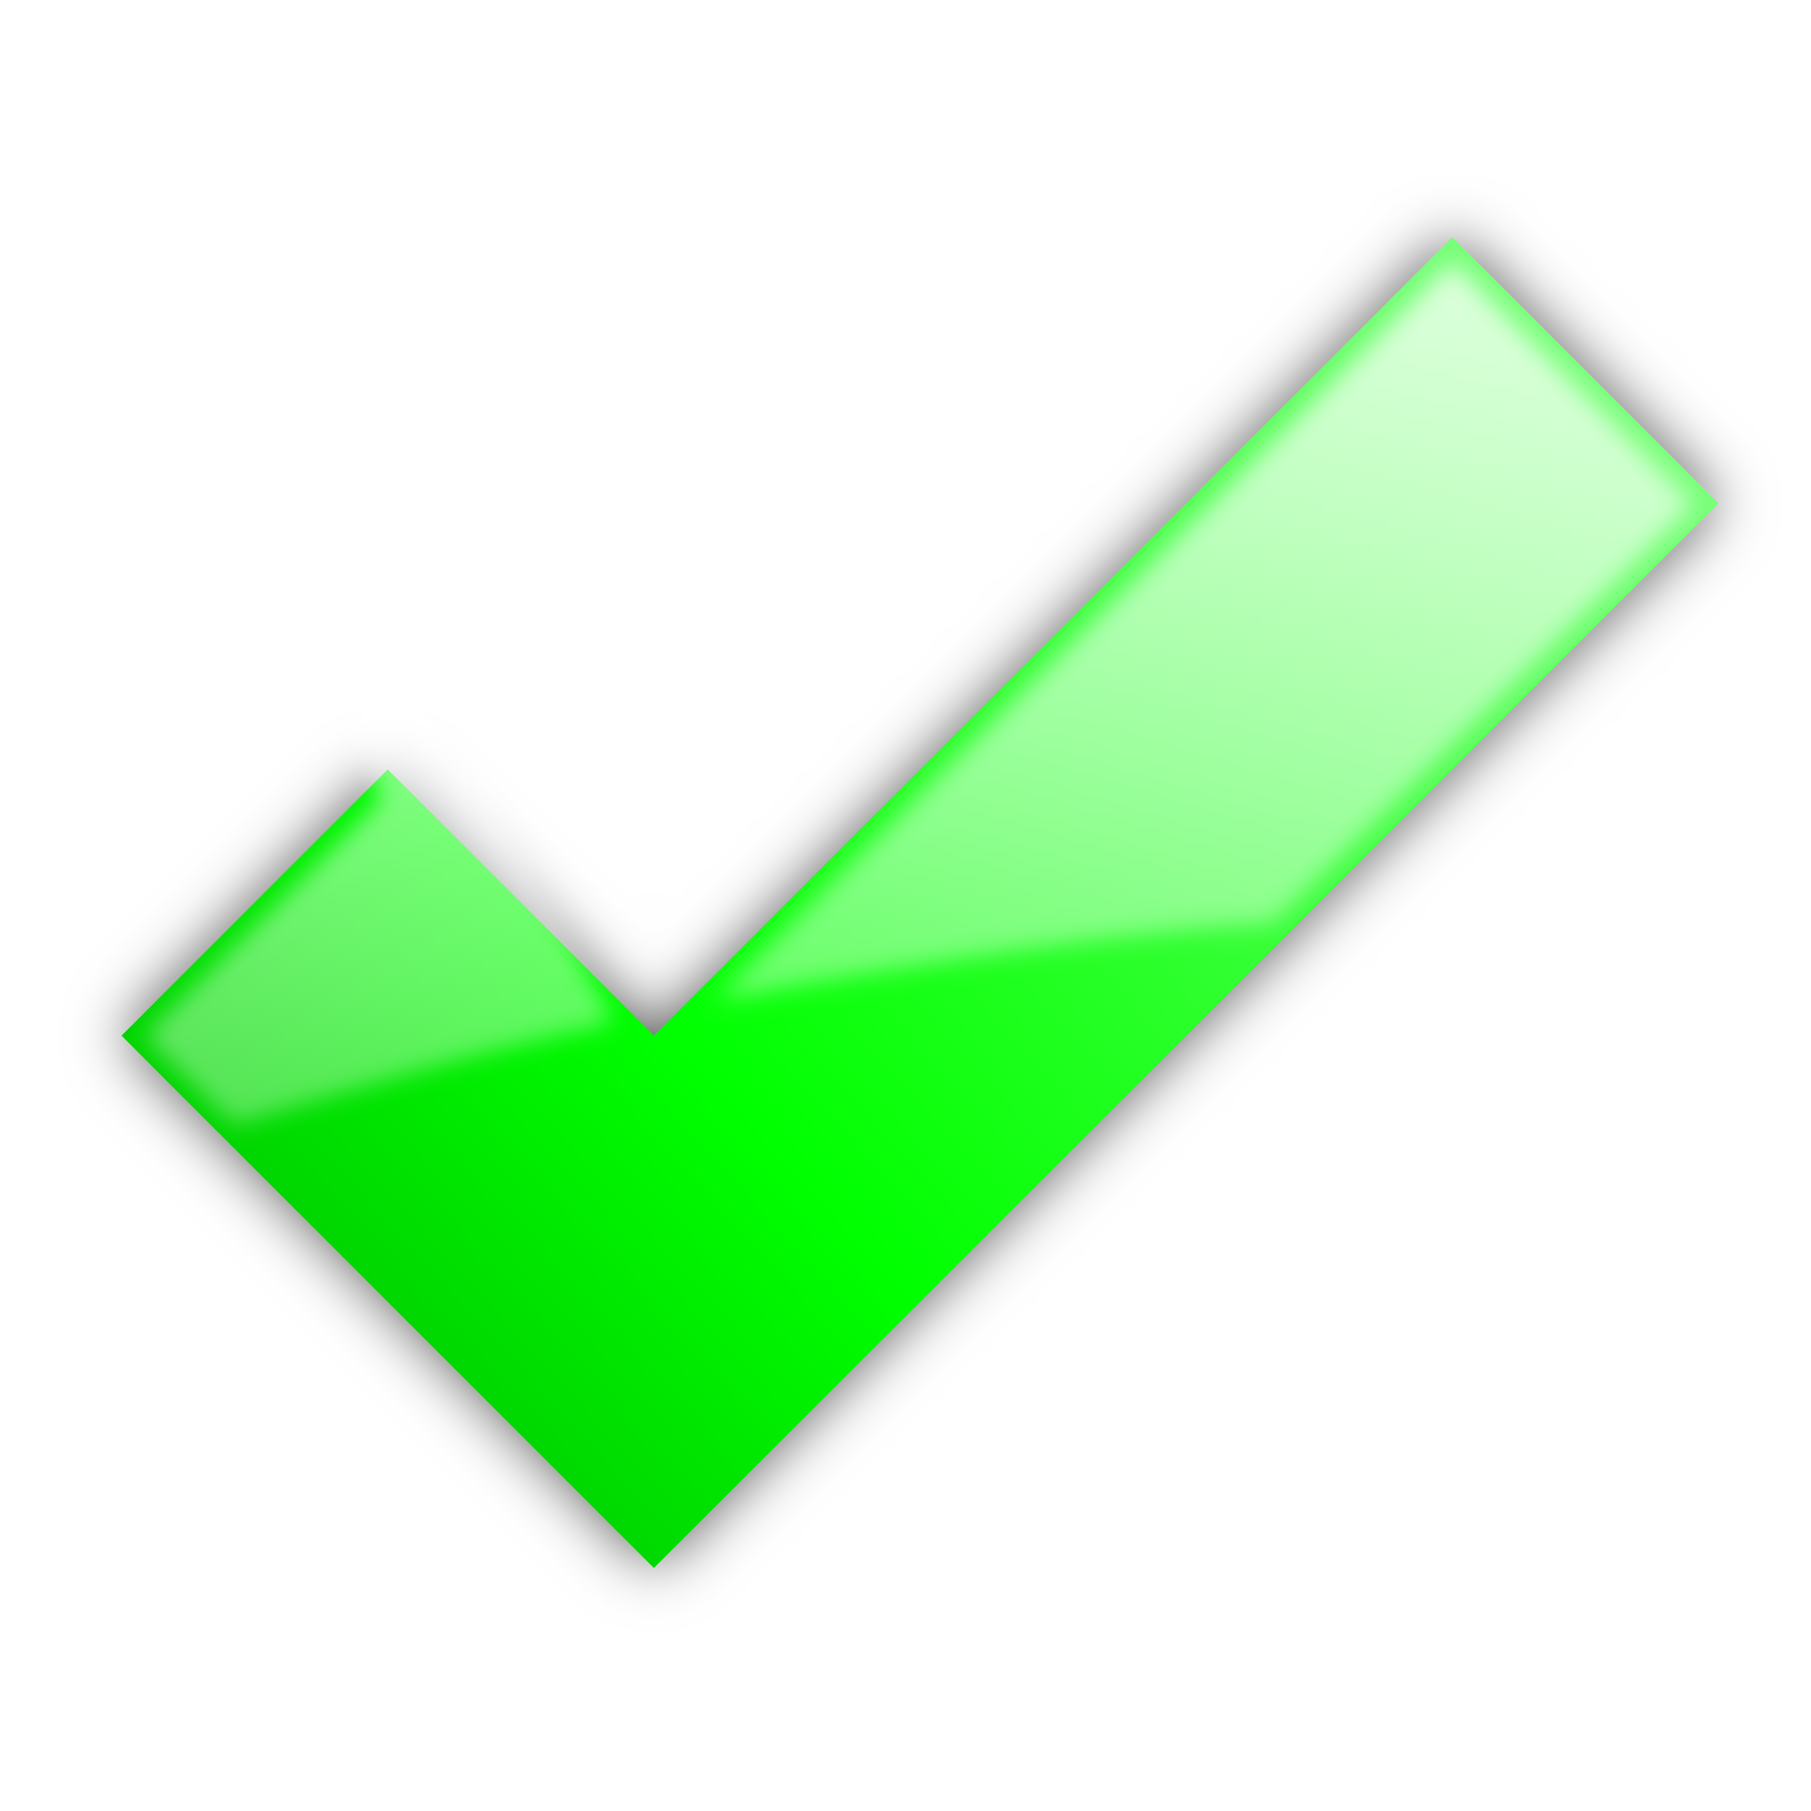
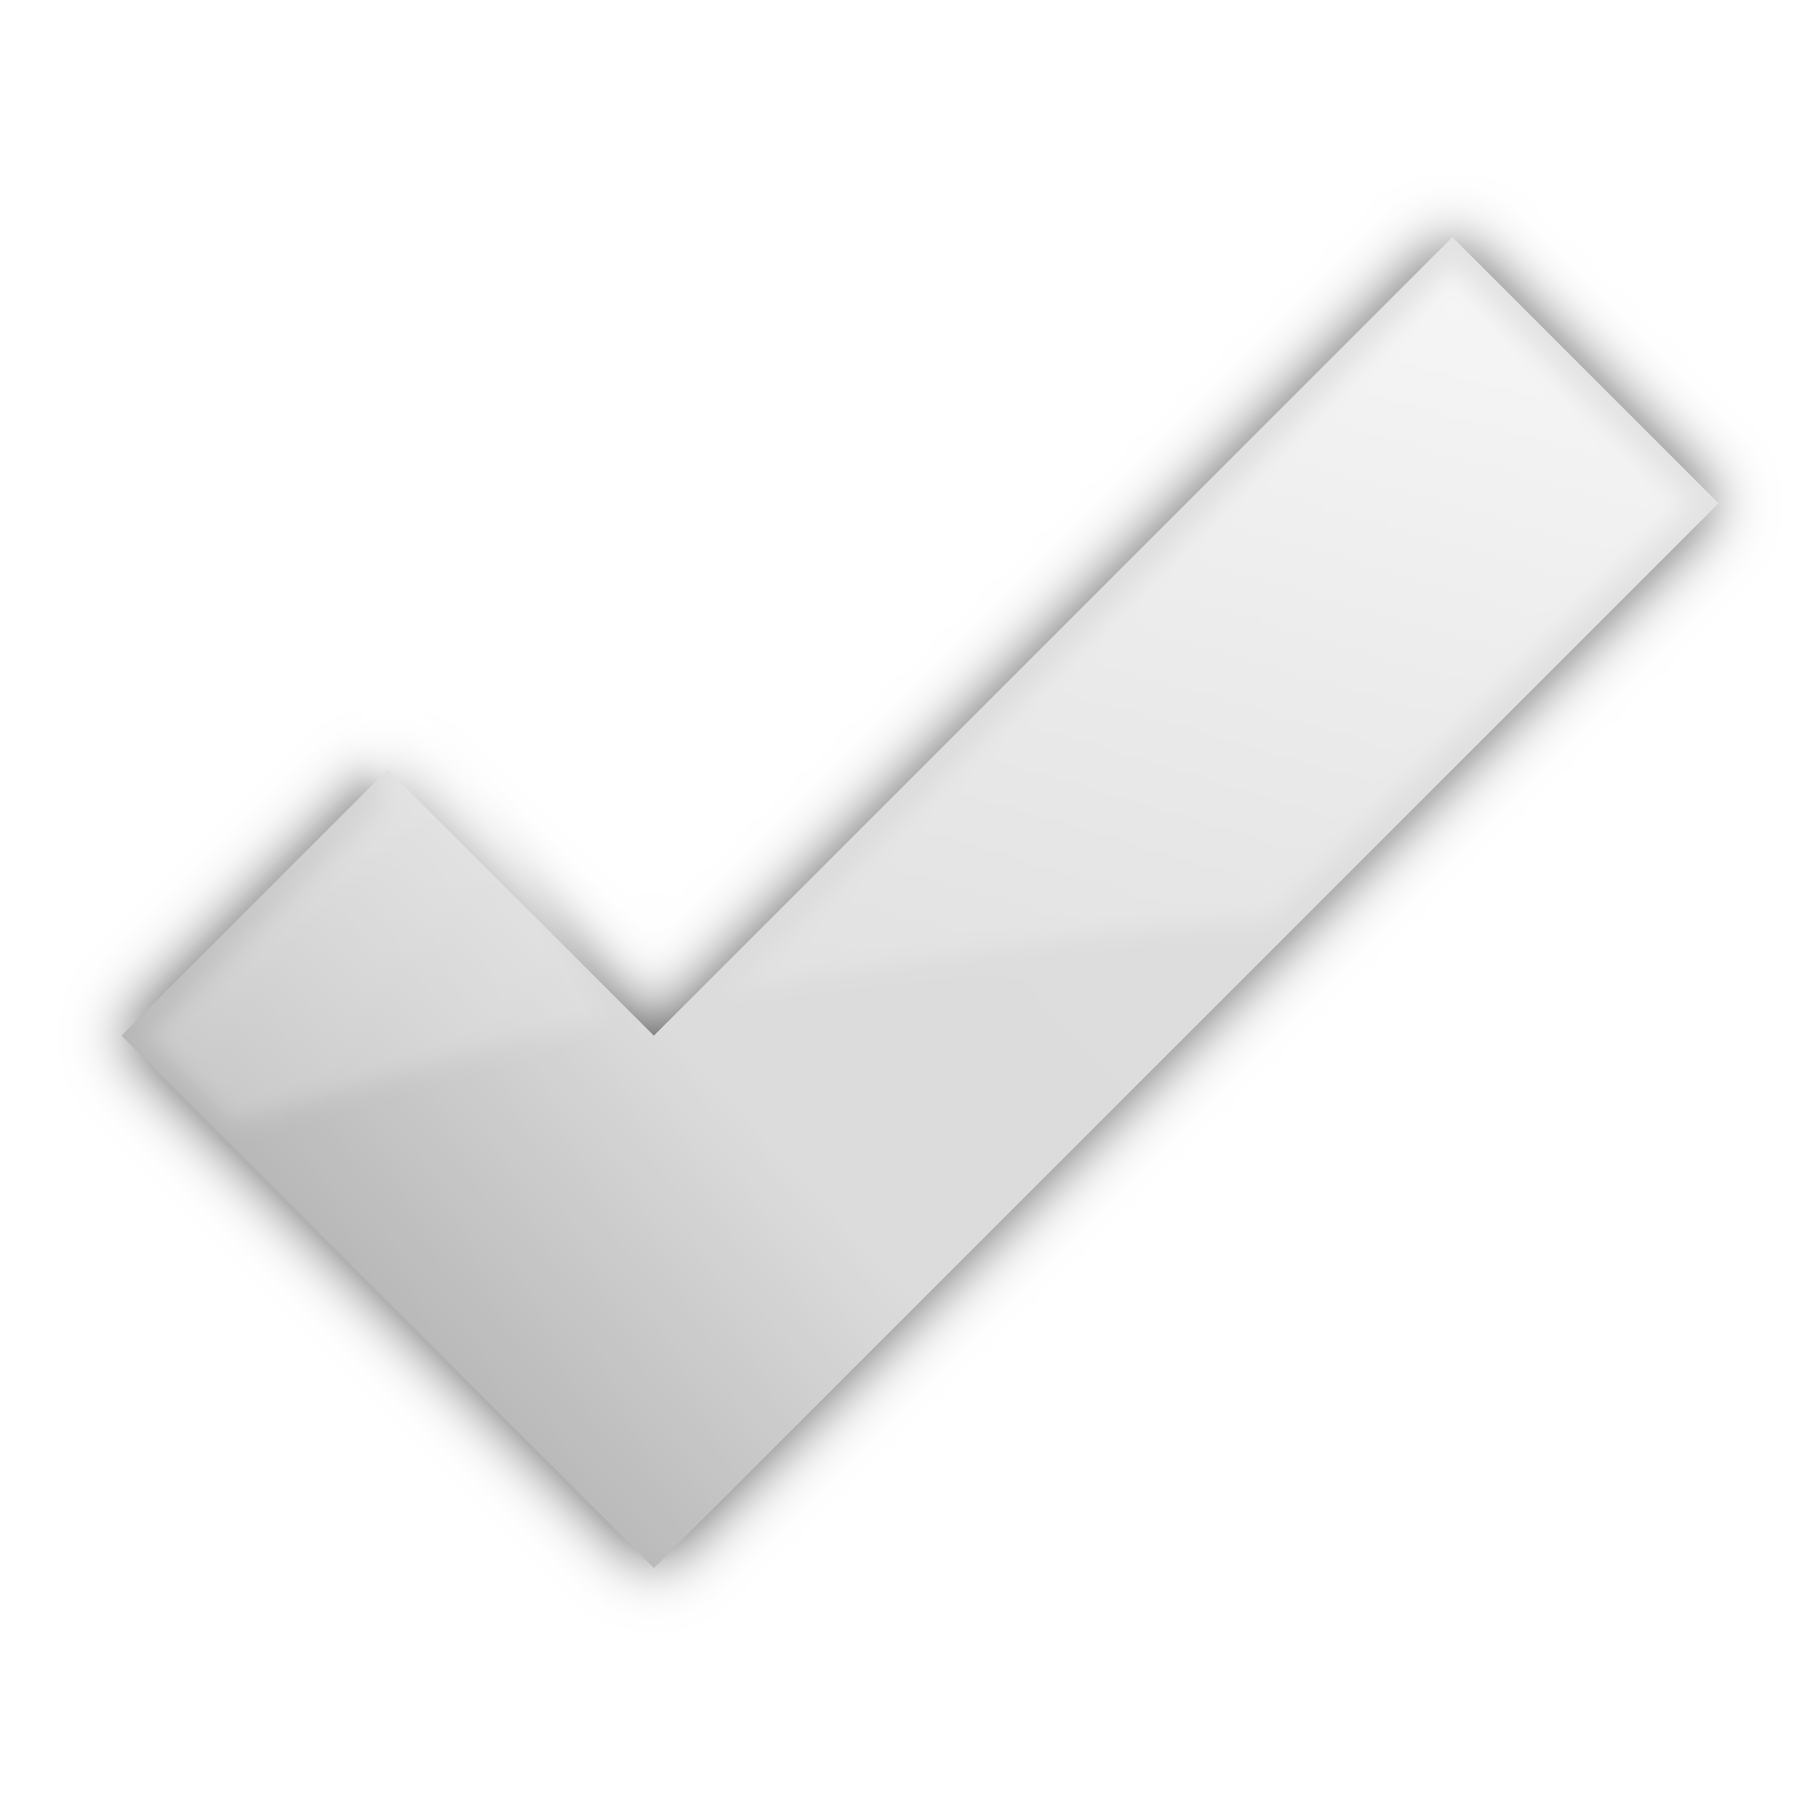
testWithCheck

Changed region(s): [[0.0625, 0.125, 0.9688, 0.875]]

diff --git a/main.c b/main.c
@@ -1,189 +1,213 @@
 /**
  * main.c - Sets up the main Window and an ActionMenuLayer to prompt a button
- * press. Once pressed, an ActionMenu is shown to allow choice of a 
+ * press. Once pressed, an ActionMenu is shown to allow choice of a
  * vibration pattern
  */
 
 #include <pebble.h>
 
 typedef enum {
-  VibrationTypeShort,
-  VibrationTypeLong,
-  VibrationTypeDouble,
-  VibrationTypeCustomShort,
-  VibrationTypeCustomMedium,
-  VibrationTypeCustomLong
+    VibrationTypeShort,
+    VibrationTypeLong,
+    VibrationTypeDouble,
+    VibrationTypeCustomShort,
+    VibrationTypeCustomMedium,
+    VibrationTypeCustomLong
 } VibrationType;
 
 typedef struct {
-  VibrationType type;
+    VibrationType type;
 } Context;
 
 static Window *s_main_window;
 static TextLayer *s_label_layer;
 static ActionBarLayer *s_action_bar;
 
-static GBitmap *s_ellipsis_bitmap;
+static GBitmap *s_ellipsis_bitmap, *s_check_bitmap;
+
+
+
+
 
 static ActionMenu *s_action_menu;
-static ActionMenuLevel *s_root_level, *s_custom_level;
+static ActionMenuLevel *s_root_level, *s_custom_level, *s_second_level, *s_third_level, *s_fourth_level;
 
 /********************************* ActionMenu *********************************/
 
 static void action_performed_callback(ActionMenu *action_menu, const ActionMenuItem *action, void *context) {
-  // An action was selected, determine which one
-  VibrationType type = *(VibrationType*)action_menu_item_get_action_data(action);
-
-  /*// Play this vibration
-  static uint32_t segments[5];
-  switch(type) {
-    case VibrationTypeShort:  vibes_short_pulse();  break;
-    case VibrationTypeLong:   vibes_long_pulse();   break;
-    case VibrationTypeDouble: vibes_double_pulse(); break;
-    default:
-      // Create the patten
-      for(int i = 0; i < 5; i++) {
-        switch(type) {
-          case VibrationTypeCustomShort:  segments[i] = i * 100; break;
-          case VibrationTypeCustomMedium: segments[i] = i * 200; break;
-          case VibrationTypeCustomLong:   segments[i] = i * 300; break;
-          default: break;
-        }
-      }
-
-      // Play the custom pattern
-      VibePattern pat = {
-        .durations = segments,
-        .num_segments = ARRAY_LENGTH(segments),
-      };
-      vibes_enqueue_custom_pattern(pat);
-      break;
-  }
-}*/
+    // An action was selected, determine which one
+    VibrationType type = *(VibrationType*)action_menu_item_get_action_data(action);
+    
+    // Play this vibration
+    static uint32_t segments[5];
+    switch(type) {
+        case VibrationTypeShort:  vibes_short_pulse();  break;
+        case VibrationTypeLong:   vibes_long_pulse();   break;
+        case VibrationTypeDouble: vibes_double_pulse(); break;
+        default:
+            // Create the patten
+            for(int i = 0; i < 5; i++) {
+                switch(type) {
+                    case VibrationTypeCustomShort:  segments[i] = i * 100; break;
+                    case VibrationTypeCustomMedium: segments[i] = i * 200; break;
+                    case VibrationTypeCustomLong:   segments[i] = i * 300; break;
+                    default: break;
+                }
+            }
+            
+            // Play the custom pattern
+            VibePattern pat = {
+                .durations = segments,
+                .num_segments = ARRAY_LENGTH(segments),
+            };
+            vibes_enqueue_custom_pattern(pat);
+            break;
+    }
+}
 
 static void init_action_menu() {
     // Create the root level
-  s_root_level = action_menu_level_create(4);
-  
-  // Create and set up the secondary level, adding it as a child to the root one
-  s_custom_level = action_menu_level_create(3);
-  action_menu_level_add_child(s_root_level, s_custom_level, "Attendance");
-
-  // Set up the secondary actions for "Attendance"
-  action_menu_level_add_action(s_custom_level, "Custom Fast", action_performed_callback, 
-                               &(Context){.type=VibrationTypeCustomShort});
-  action_menu_level_add_action(s_custom_level, "Custom Medium", action_performed_callback, 
-                               &(Context){.type=VibrationTypeCustomMedium});
-  action_menu_level_add_action(s_custom_level, "Custom Slow", action_performed_callback, 
-                               &(Context){.type=VibrationTypeCustomLong});
-  
-  // Create and set up the secondary level, adding it as a child to the root one
-  s_custom_level = action_menu_level_create(3);
-  action_menu_level_add_child(s_root_level, s_custom_level, "Grades");
-
-  // Set up the secondary actions for "grades"
-  action_menu_level_add_action(s_custom_level, "Custom Fast", action_performed_callback, 
-                               &(Context){.type=VibrationTypeCustomShort});
-  action_menu_level_add_action(s_custom_level, "Custom Medium", action_performed_callback, 
-                               &(Context){.type=VibrationTypeCustomMedium});
-  action_menu_level_add_action(s_custom_level, "Custom Slow", action_performed_callback, 
-                               &(Context){.type=VibrationTypeCustomLong});
+    s_root_level = action_menu_level_create(4);
+    
     // Create and set up the secondary level, adding it as a child to the root one
-  s_custom_level = action_menu_level_create(3);
-  action_menu_level_add_child(s_root_level, s_custom_level, "Extra Curricular Activities");
-
-  // Set up the secondary actions for "Extra Curricular Activities"
-  action_menu_level_add_action(s_custom_level, "Custom Fast", action_performed_callback, 
-                               &(Context){.type=VibrationTypeCustomShort});
-  action_menu_level_add_action(s_custom_level, "Custom Medium", action_performed_callback, 
-                               &(Context){.type=VibrationTypeCustomMedium});
-  action_menu_level_add_action(s_custom_level, "Custom Slow", action_performed_callback, 
-                               &(Context){.type=VibrationTypeCustomLong});
-  
-  // Create and set up the secondary level, adding it as a child to the root one
-  s_custom_level = action_menu_level_create(3);
-  action_menu_level_add_child(s_root_level, s_custom_level, "Stressors");
-
-  // Set up the secondary actions for "Stressors"
-  action_menu_level_add_action(s_custom_level, "Custom Fast", action_performed_callback, 
-                               &(Context){.type=VibrationTypeCustomShort});
-  action_menu_level_add_action(s_custom_level, "Custom Medium", action_performed_callback, 
-                               &(Context){.type=VibrationTypeCustomMedium});
-  action_menu_level_add_action(s_custom_level, "Custom Slow", action_performed_callback, 
-                               &(Context){.type=VibrationTypeCustomLong});
+    s_custom_level = action_menu_level_create(1);
+    action_menu_level_add_child(s_root_level, s_custom_level, "Attendance");
+    
+    // Set up the secondary actions for "Attendance"
+    action_menu_level_add_action(s_custom_level, "Check In", action_performed_callback,
+                                 &(Context){.type=VibrationTypeCustomShort});
+    
+    // Create and set up the secondary level, adding it as a child to the root one
+    s_custom_level = action_menu_level_create(2);
+    action_menu_level_add_child(s_root_level, s_custom_level, "Grades");
+    
+    // Set up the next levels for "Test & Homework"
+    s_second_level = action_menu_level_create(5);
+    action_menu_level_add_child(s_custom_level, s_second_level, "Test/Exam");
+    action_menu_level_add_child(s_custom_level, s_second_level, "Homework");
+    // Set up the next levels for letter grades
+    s_third_level = action_menu_level_create(2);
+    action_menu_level_add_child(s_second_level, s_third_level, "A");
+    action_menu_level_add_child(s_second_level, s_third_level, "B");
+    action_menu_level_add_child(s_second_level, s_third_level, "C");
+    action_menu_level_add_child(s_second_level, s_third_level, "D");
+    action_menu_level_add_child(s_second_level, s_third_level, "F");
+    s_fourth_level = action_menu_level_create(1);
+    action_menu_level_add_child(s_third_level, s_fourth_level, "CONFIRM");
+    action_menu_level_add_child(s_third_level, s_fourth_level, "CANCEL");
+    // Create and set up the secondary level, adding it as a child to the root one
+    s_custom_level = action_menu_level_create(3);
+    action_menu_level_add_child(s_root_level, s_custom_level, "Extra Curricular");
+    
+    // Set up the secondary actions for "Extra Curricular Activities"
+    action_menu_level_add_action(s_custom_level, "Basketball", action_performed_callback,
+                                 &(Context){.type=VibrationTypeCustomShort});
+    action_menu_level_add_action(s_custom_level, "Band", action_performed_callback,
+                                 &(Context){.type=VibrationTypeCustomMedium});
+    action_menu_level_add_action(s_custom_level, "Community Service", action_performed_callback,
+                                 &(Context){.type=VibrationTypeCustomLong});
+    
+    // Create and set up the secondary level, adding it as a child to the root one
+    s_custom_level = action_menu_level_create(4);
+    action_menu_level_add_child(s_root_level, s_custom_level, "Stressors");
+    
+    // Set up the secondary actions for "Stressors"
+    action_menu_level_add_action(s_custom_level, "No Stressors", action_performed_callback,
+                                 &(Context){.type=VibrationTypeCustomShort});
+    action_menu_level_add_action(s_custom_level, "Home Life", action_performed_callback,
+                                 &(Context){.type=VibrationTypeCustomMedium});
+    action_menu_level_add_action(s_custom_level, "School", action_performed_callback,
+                                 &(Context){.type=VibrationTypeCustomLong});
+    action_menu_level_add_action(s_custom_level, "Personal Issues", action_performed_callback,
+                                 &(Context){.type=VibrationTypeCustomLong});
 }
 
 /*********************************** Clicks ***********************************/
 
 static void select_click_handler(ClickRecognizerRef recognizer, void *context) {
-  // Configure the ActionMenu Window about to be shown
-  ActionMenuConfig config = (ActionMenuConfig) {
-    .root_level = s_root_level,
-    .colors = {
-      .background = GColorChromeYellow,
-      .foreground = GColorBlack,
-    },
-    .align = ActionMenuAlignCenter
-  };
-
-  // Show the ActionMenu
-  s_action_menu = action_menu_open(&config);
+    // Configure the ActionMenu Window about to be shown
+    ActionMenuConfig config = (ActionMenuConfig) {
+        .root_level = s_root_level,
+        .colors = {
+            .background = GColorChromeYellow,
+            .foreground = GColorBlack,
+        },
+        .align = ActionMenuAlignCenter
+    };
+    
+    // Show the ActionMenu
+    s_action_menu = action_menu_open(&config);
 }
 
 static void click_config_provider(void *context) {
-  window_single_click_subscribe(BUTTON_ID_SELECT, select_click_handler);
+    window_single_click_subscribe(BUTTON_ID_SELECT, select_click_handler);
 }
 
 /******************************** Main Window *********************************/
 
 static void window_load(Window *window) {
-  Layer *window_layer = window_get_root_layer(window);
-  GRect bounds = layer_get_bounds(window_layer);
-
-  s_ellipsis_bitmap = gbitmap_create_with_resource(RESOURCE_ID_ELLIPSIS);
-
-  s_action_bar = action_bar_layer_create();
-  action_bar_layer_set_click_config_provider(s_action_bar, click_config_provider);
-  action_bar_layer_set_icon(s_action_bar, BUTTON_ID_SELECT, s_ellipsis_bitmap);
-  action_bar_layer_add_to_window(s_action_bar, window);
-
-  s_label_layer = text_layer_create(GRect(0, 0, bounds.size.w - ACTION_BAR_WIDTH, bounds.size.h));
-  text_layer_set_text(s_label_layer, "Welcome, Student!");
-  text_layer_set_font(s_label_layer, fonts_get_system_font(FONT_KEY_GOTHIC_24_BOLD));
-  text_layer_set_text_color(s_label_layer, GColorBlack);
-  text_layer_set_background_color(s_label_layer, GColorClear);
-  text_layer_set_text_alignment(s_label_layer, GTextAlignmentCenter);
-  layer_add_child(window_layer, text_layer_get_layer(s_label_layer));
+    Layer *window_layer = window_get_root_layer(window);
+    GRect bounds = layer_get_bounds(window_layer);
+    
+    s_ellipsis_bitmap = gbitmap_create_with_resource(RESOURCE_ID_ELLIPSIS);
+    s_check_bitmap = gbitmap_create_with_resource(RESOURCE_ID_check);
+    
+    
+    
+    static BitmapLayer *check_bitmap_layer;
+    check_bitmap_layer = bitmap_layer_create(GRect(5, 5, 48, 48));
+    bitmap_layer_set_bitmap(check_bitmap_layer, s_check_bitmap);
+    layer_add_child(window_get_root_layer(window), bitmap_layer_get_layer(check_bitmap_layer));
+    gbitmap_destroy(s_check_bitmap);
+    bitmap_layer_destroy(check_bitmap_layer);
+    
+    //above is the test for the check
+    
+    
+    
+    
+    s_action_bar = action_bar_layer_create();
+    action_bar_layer_set_click_config_provider(s_action_bar, click_config_provider);
+    action_bar_layer_set_icon(s_action_bar, BUTTON_ID_SELECT, s_ellipsis_bitmap);
+    action_bar_layer_add_to_window(s_action_bar, window);
+    
+    s_label_layer = text_layer_create(GRect(0, 0, bounds.size.w - ACTION_BAR_WIDTH, bounds.size.h));
+    text_layer_set_text(s_label_layer, "Welcome, John Smith!");
+    text_layer_set_font(s_label_layer, fonts_get_system_font(FONT_KEY_GOTHIC_24_BOLD));
+    text_layer_set_text_color(s_label_layer, GColorBlack);
+    text_layer_set_background_color(s_label_layer, GColorClear);
+    text_layer_set_text_alignment(s_label_layer, GTextAlignmentCenter);
+    layer_add_child(window_layer, text_layer_get_layer(s_label_layer));
 }
 
 static void window_unload(Window *window) {
-  text_layer_destroy(s_label_layer);
-  action_bar_layer_destroy(s_action_bar);
-  gbitmap_destroy(s_ellipsis_bitmap);
-
-  action_menu_hierarchy_destroy(s_root_level, NULL, NULL);
+    text_layer_destroy(s_label_layer);
+    action_bar_layer_destroy(s_action_bar);
+    gbitmap_destroy(s_ellipsis_bitmap);
+    
+    action_menu_hierarchy_destroy(s_root_level, NULL, NULL);
 }
 
 /************************************ App *************************************/
 
 static void init() {
-  s_main_window = window_create();
-  window_set_background_color(s_main_window, GColorChromeYellow);
-  window_set_window_handlers(s_main_window, (WindowHandlers) {
-    .load = window_load,
-    .unload = window_unload,
-  });
-  window_stack_push(s_main_window, true);
-
-  init_action_menu();
+    s_main_window = window_create();
+    window_set_background_color(s_main_window, GColorChromeYellow);
+    window_set_window_handlers(s_main_window, (WindowHandlers) {
+        .load = window_load,
+        .unload = window_unload,
+    });
+    window_stack_push(s_main_window, true);
+    
+    init_action_menu();
 }
 
 static void deinit() {
-  window_destroy(s_main_window);
+    window_destroy(s_main_window);
 }
 
 int main() {
-  init();
-  app_event_loop();
-  deinit();
+    init();
+    app_event_loop();
+    deinit();
 }
